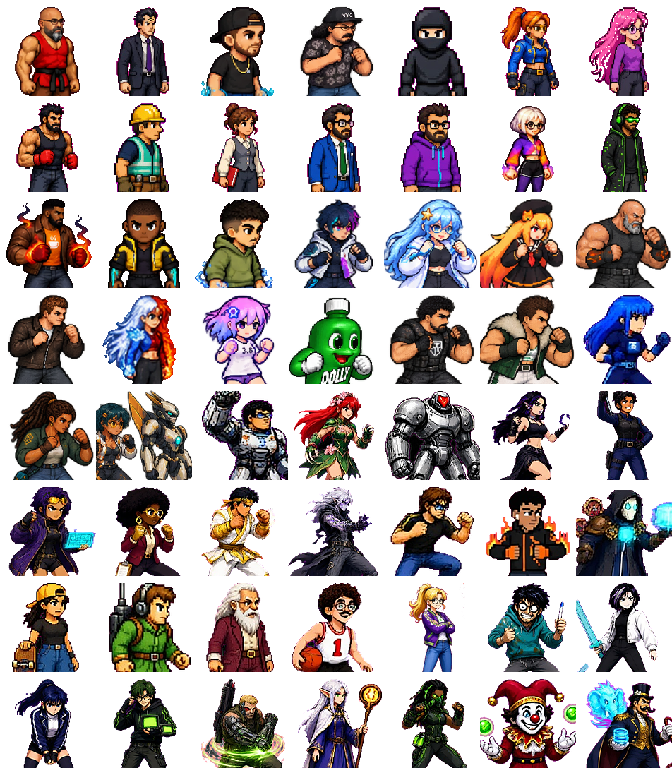
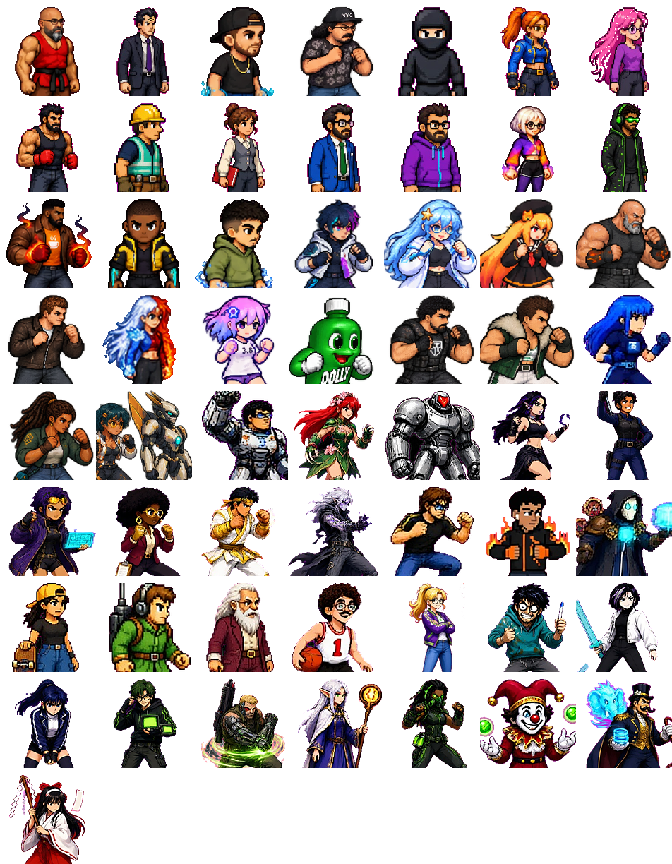
Miko (sacerdotisa) entra no roster
Arte do dono: poses das 2 folhas, atlas animado + extra (tools/build_miko_fx.py),
rosto/retrato/grade (celula 56). Kit diferente dos outros:
Ofuda Selante (paralisa), Hamaya (flecha rapida que atravessa + vulneravel),
Kekkai (barreira que bloqueia projeteis), Portal Torii (teleporte; caindo em
cima da dano + tonto) e ult EXCLUSIVA Kitsune de Nove Caudas que PURIFICA:
tira todos os buffs do rival e limpa os debuffs da Miko. FORCA 2.55 (~48%).
Acessorio: cabeca medida pelo tronco. tools/miko_test.cjs (19 checks).

Claude-Session: https://claude.ai/code/session_01SiaquMaGUrkfDxfxtSpwxQ

diff --git a/js/data/fighters-miko.js b/js/data/fighters-miko.js
@@ -1,0 +1,64 @@
+/* DS Fighters — MIKO, a sacerdotisa (nov/2026). Arte do dono
+   (bugs/Novos-personagens/Miko *.jpg): kimono branco, hakama vermelho, gohei
+   e ofudas. poses -> tools/integrate_fighter.py miko; poderes ->
+   tools/build_miko_fx.py. Controle sagrado: selo que paralisa, flecha que
+   atravessa, barreira kekkai, portal torii e a ult exclusiva KITSUNE que
+   PURIFICA (tira os buffs do rival e limpa os debuffs dela). */
+(() => {
+  const id = 'miko';
+  SPRITE_LAYOUT.files[id] = `assets/sprites/${id}.png`;
+  SPRITE_LAYOUT.ver = SPRITE_LAYOUT.ver || {};
+  SPRITE_LAYOUT.ver[id] = 'v71-miko';
+  SPRITE_LAYOUT.perFighter[id] = Object.assign(SPRITE_LAYOUT.perFighter[id] || {}, {
+    frames: Object.fromEntries(SPRITE_LAYOUT.poses.map((pose) => [pose, 4])),
+    headScan: true, /* gohei/ofuda em volta da cabeca */
+    accHide: ['ko', 'kick', 'jkick'],
+  });
+  const visual = (row, color) => ({ visualSheet: id, visualRow: row, impactSheets: ['miko-extra'], impactColor: color });
+
+  FIGHTERS.push({
+    id,
+    name: 'MIKO',
+    title: 'A Sacerdotisa do Santuário',
+    bio: 'Guardiã do santuário da colina: com o gohei e uma pilha de ofudas ela sela qualquer bug, ergue barreiras e abre portais pelos torii. Quando a raposa de nove caudas responde ao chamado, nenhum buff do rival sobrevive.',
+    colors: { skin: '#F8E0CC', hair: '#120E12', shirt: '#F4F2EE', pants: '#B4161E', shoes: '#6B4422', accent: '#FFD27D' },
+    traits: { longHair: true, gohei: true, ofuda: true },
+    stats: { power: 1.1, speed: 1.12, weight: 0.9, hp: 155, meterRate: 1.25 },
+    secret: false,
+    quotes: {
+      intro: ['O santuário está protegido.', 'Que os espíritos me guiem.'],
+      win: ['Purificado.', 'Que a paz volte ao santuário.'],
+      lose: ['O selo... rompeu...', 'Perdão, kami-sama...'],
+      taunt: ['Seu bug já tem selo.'],
+      special: ['OFUDA!', 'HAMAYA!', 'KEKKAI!', 'PORTAL TORII!'],
+      super: ['KITSUNE, VENHA!!'],
+    },
+    moves: {
+      punch: { dmg: 7, range: 58, startup: 5, active: 4, recovery: 9 },
+      kick: { dmg: 12, range: 72, startup: 8, active: 5, recovery: 12 },
+    },
+    special: { name: 'Ofuda Selante', type: 'projectile', cost: 25, proj: { row: 0, speed: 11, dmg: 9, w: 24, h: 30, color: '#FFE89A', shape: 'orb', visualSheet: id, visualRow: 0 } },
+    super: { name: 'Kitsune de Nove Caudas', type: 'buff', visualSheet: id, visualRow: 4 },
+  });
+
+  Object.assign(POWERS, {
+    [id]: {
+      element: 'arcano',
+      theme: 'santuario: ofuda que sela, hamaya, barreira kekkai, portal torii e a kitsune que purifica',
+      powers: [
+        Object.assign({ id: 'ofuda-selante', name: 'Ofuda Selante', slot: 'simple', row: 0, kind: 'shot', dmg: 9, speed: 11, cd: 54, sfx: 'magic', fx: { paralyze: 36 },
+          desc: 'Pergaminho sagrado que SELA o rival: fica PARALISADO por um instante.' }, visual(0, '#FFE89A')),
+        Object.assign({ id: 'hamaya', name: 'Hamaya', slot: 'simple', row: 1, kind: 'shot', dmg: 12, speed: 17, pierce: true, cd: 60, sfx: 'whoosh', fx: { vuln: 90 },
+          desc: 'Flecha sagrada muito rápida que ATRAVESSA e deixa VULNERÁVEL.' }, visual(1, '#FFC23A')),
+        Object.assign({ id: 'kekkai', name: 'Kekkai', slot: 'charge', meter: 0, row: 2, kind: 'wall', time: 300, dmg: 10, cd: 100, sfx: 'shield',
+          desc: 'Ergue uma barreira de ofudas na frente: BLOQUEIA projéteis e empurra quem estiver colado.' }, visual(2, '#E8C27A')),
+        Object.assign({ id: 'portal-torii', name: 'Portal Torii', slot: 'charge', meter: 1, row: 3, kind: 'shadowport', burstDmg: 16, cd: 80, sfx: 'magic', fx: { dizzy: 30 },
+          desc: 'Some num torii e reaparece atrás (ou em cima) do rival; caindo em cima: 16 de dano + TONTO.' }, visual(3, '#FF6A3A')),
+        Object.assign({ id: 'kitsune', name: 'Kitsune de Nove Caudas', slot: 'ultimate', row: 4, kind: 'kitsune', dmg: 28, heal: 12, cd: 150, sfx: 'ultimate',
+          desc: 'EXCLUSIVA: a raposa sagrada ataca e PURIFICA — o rival perde TODOS os buffs (aura, armadura, reflexo, overclock...) e a Miko limpa os próprios debuffs e cura um pouco.' }, visual(4, '#FFF2C4')),
+      ],
+    },
+  });
+  Object.assign(ELEMENT_FX, { [id]: { sheet: id, color: '#FFE89A' } });
+  Object.assign(SIGNATURES, { [id]: { trait: 'SANTUÁRIO', desc: 'Selo que paralisa, flecha que atravessa, barreira, portal e a kitsune que apaga os buffs do rival.', basic: {}, ability: {} } });
+})();

diff --git a/index.html b/index.html
@@ -521,6 +521,7 @@
   <script src="js/data/fighters-larper.js?v=v69-acc"></script>
   <script src="js/data/fighters-jester.js?v=v69-acc"></script>
   <script src="js/data/fighters-domador.js?v=v69-acc"></script>
+  <script src="js/data/fighters-miko.js?v=v71-miko"></script>
   <script src="js/data/balance-v14.js?v=v60-balanco"></script>
   <script src="js/data/balance.js?v=v53-torneio"></script>
   <script src="js/data/pets.js?v=v47-maresprites"></script>
@@ -531,13 +532,13 @@
   <script src="js/data/stages-events.js?v=v47-maresprites"></script>
   <script src="js/data/stages-brasil.js?v=v47-maresprites"></script>
   <script src="js/engine/sprites.js?v=v69-acc"></script>
-  <script src="js/engine/fx.js?v=v68-domador"></script>
+  <script src="js/engine/fx.js?v=v71-miko"></script>
   <script src="js/data/voice-book.js?v=v47-maresprites"></script>
   <script src="js/engine/audio.js?v=v47-maresprites"></script>
   <script src="js/engine/input.js?v=v47-maresprites"></script>
   <script src="js/ui/viewport.js?v=v47-maresprites"></script>
   <script src="js/engine/projectile.js?v=v62-cracker"></script>
-  <script src="js/engine/fighter.js?v=v70-mapas"></script>
+  <script src="js/engine/fighter.js?v=v71-miko"></script>
   <script src="js/engine/vfx.js?v=v47-maresprites"></script>
   <script src="js/engine/weather.js?v=v70-mapas"></script>
   <script src="js/engine/mechanics.js?v=v55-revisao"></script>
@@ -548,7 +549,7 @@
   <script src="js/net/room-core.js?v=v67-jester"></script>
   <script src="js/net/online.js?v=v47-maresprites"></script>
   <script src="js/ui/hud.js?v=v66-larper"></script>
-  <script src="js/data/roster-portraits.js?v=v68-domador"></script>
+  <script src="js/data/roster-portraits.js?v=v71-miko"></script>
   <script src="js/ui/ui.js?v=v67-jester"></script>
   <script src="js/ui/account.js?v=v47-maresprites"></script>
   <script src="js/main.js?v=v62-cracker"></script>

diff --git a/js/engine/fighter.js b/js/engine/fighter.js
@@ -862,6 +862,29 @@ class Fighter {
         game.spawnBurst('abil:jess', 4, this.x, this.y - 100, this.dir, 2.2);
         break;
       }
+      case 'kitsune': {
+        /* KITSUNE DE NOVE CAUDAS (ult exclusiva da MIKO): a raposa sagrada
+           ataca o rival e PURIFICA — tira todos os buffs dele (aura, armadura,
+           reflexo, overclock, regen...) e limpa os debuffs da propria Miko. */
+        const rival = game.enemyOf(this);
+        if (!rival) break;
+        const BUFFS = ['atk', 'def', 'spd', 'rage', 'armor', 'reflect', 'aura', 'regen', 'overclock', 'cloak', 'astra', 'trans', 'phoenix', 'lifesteal', 'nanomachines', 'veil', 'resonance'];
+        game.strikes.push(new Strike(this, {
+          x: rival.x, delay: 16, w: 220, h: 380, dmg: p.dmg || 28, stun: 34, launch: -10, follow: rival,
+          sheet: { key, row: p.row, frames: 4 }, scale: 2.6, power: p, sound: 'magic', shake: 10, warnColor: '#fff2c4',
+          onHit: (f) => {
+            let n = 0;
+            for (const b of BUFFS) if (f.status[b] > 0) { f.status[b] = 0; n++; }
+            if (f.aura) { f.aura = null; n++; }
+            ['burn', 'poison', 'slow', 'bleed', 'vuln', 'locked', 'blind', 'shock', 'glitch', 'daltonic', 'shuffled', 'vertigo'].forEach((st) => { this.status[st] = 0; });
+            this.heal(p.heal || 12);
+            game.floatText(f.x, f.y - 260, n ? 'PURIFICADO! −' + n + ' BUFF' + (n > 1 ? 'S' : '') : 'PURIFICADO!', '#FFF2C4');
+            game.spawnBurst('fx2:miko-extra', 1, f.x, f.y - 110, this.dir, 2.4);
+          },
+        }));
+        game.floatText(this.x, this.y - 250, 'KITSUNE!', '#FFD27D');
+        break;
+      }
       case 'jesterfinale': {
         /* GRANDE FINAL (ult exclusiva do JESTER): marretada com estrela, ✗
            explodindo e chuva de confete; quem leva fica com os BOTOES DE PODER

diff --git a/js/data/roster-portraits.js b/js/data/roster-portraits.js
@@ -4,9 +4,9 @@ const ROSTER_PORTRAITS = {
   "cell": 96,
   "cols": 7,
   "file": "assets/ui/roster-portraits.png",
-  "version": "v68-domador",
+  "version": "v71-miko",
   "order": [
-    "du","iales","felipinho","stack","gitmaster","bughunter","frontend","backend","devops","qa","scrum","fullstack","kotlin","hacker","java","merc","bhm","gemini","meta","mis","dev-senior","urbano","xeon","qwen","dolynho","thl","lobao","winx-exe","dandara-query","nina-vector","dev-veterano","hana","cyber-psicopata","grika","guarda-digital","engenheira-prompt","odette","john-vibe","nimbo","emilio","nunes","ponteiro","lia","nexo","maximilian","henrico","jess","dev-virado","milena","kira","cracker","rafael","lyra","larper","jester","domador"
+    "du","iales","felipinho","stack","gitmaster","bughunter","frontend","backend","devops","qa","scrum","fullstack","kotlin","hacker","java","merc","bhm","gemini","meta","mis","dev-senior","urbano","xeon","qwen","dolynho","thl","lobao","winx-exe","dandara-query","nina-vector","dev-veterano","hana","cyber-psicopata","grika","guarda-digital","engenheira-prompt","odette","john-vibe","nimbo","emilio","nunes","ponteiro","lia","nexo","maximilian","henrico","jess","dev-virado","milena","kira","cracker","rafael","lyra","larper","jester","domador","miko"
   ],
   "crops": {
     "du": {
@@ -385,6 +385,13 @@ const ROSTER_PORTRAITS = {
       "y": 37,
       "side": 136,
       "source": "assets/sprites/domador.png",
+      "frame": "idle-0"
+    },
+    "miko": {
+      "x": 89,
+      "y": 38,
+      "side": 136,
+      "source": "assets/sprites/miko.png",
       "frame": "idle-0"
     }
   }

diff --git a/js/engine/fx.js b/js/engine/fx.js
@@ -39,6 +39,10 @@ const ART_SHEETS = {
   'abil:cyber-psicopata': { src: 'assets/abilities/cyber-psicopata.png', size: 128, cols: 4, rows: 5, v: 'v63-ciber' },
   'fx2:cyber-psicopata': { src: 'assets/abilities/cyber-psicopata.png', size: 128, cols: 4, rows: 5, v: 'v63-ciber' },
   'fx2:cyber-psicopata-hit': { src: 'assets/abilities/cyber-psicopata-hit.png', size: 128, cols: 4, rows: 1, v: 'v63-ciber' },
+  /* MIKO (tools/build_miko_fx.py) */
+  'abil:miko': { src: 'assets/abilities/miko.png', size: 128, cols: 4, rows: 5, v: 'v71-miko' },
+  'fx2:miko': { src: 'assets/abilities/miko.png', size: 128, cols: 4, rows: 5, v: 'v71-miko' },
+  'fx2:miko-extra': { src: 'assets/abilities/miko-extra.png', size: 128, cols: 4, rows: 2, v: 'v71-miko' },
   /* DOMADOR DE PGADMIN (tools/build_domador_fx.py) */
   'abil:domador': { src: 'assets/abilities/domador.png', size: 128, cols: 4, rows: 5, v: 'v68-domador' },
   'fx2:domador': { src: 'assets/abilities/domador.png', size: 128, cols: 4, rows: 5, v: 'v68-domador' },

diff --git a/js/data/balance-v14.js b/js/data/balance-v14.js
@@ -62,6 +62,7 @@
     'lyra': 2.05,                 /* nova (maga do JS): ~51% */
     'larper': 2.0,                /* nova (veneno): ~50% */
     'domador': 2.05,              /* novo (pgAdmin): ~50% */
+    'miko': 2.55,                 /* nova (sacerdotisa): ~50% */
     'jester': 2.9,                /* novo (bobo): ~46% CPU x CPU — as irritacoes (tela cega/girando,
                                      controle eletrizado, botoes embaralhados) pesam mais contra gente */
   };

diff --git a/tools/build_miko_fx.py b/tools/build_miko_fx.py
@@ -1,0 +1,78 @@
+#!/usr/bin/env python3
+"""Atlas de habilidades da MIKO (sacerdotisa) — arte do dono, nov/2026.
+Fontes (bugs/Novos-personagens/, grade 4x2, fundo magenta):
+  'Miko habilidades 1.jpg': pergaminho | torii em chamas | flecha | anel roxo /
+      orbe azul | tornado de papel | sino | anel de pergaminhos
+  'Miko habilidades 2.jpg': portal torii | muralha de ofudas | corte | vortice /
+      chuva de ofudas | cupula | dragao de papel | kitsune
+Saidas: assets/abilities/miko.png (4x5) e miko-extra.png (4x2: linha 0 =
+  circulo/portal no chao, linha 1 = impacto).
+Uso: python3 tools/build_miko_fx.py
+"""
+import sys
+from pathlib import Path
+
+from PIL import Image
+
+sys.path.insert(0, str(Path(__file__).resolve().parent))
+from build_ciber_fx import S, bright, fit, key_out, place  # noqa: E402
+
+ROOT = Path(__file__).resolve().parents[1]
+SRC = ROOT / 'bugs/Novos-personagens'
+G = [(c * 296 + 6, r * 448 + 6, c * 296 + 290, r * 448 + 442) for r in range(2) for c in range(4)]
+N1 = ['scroll', 'torii', 'arrow', 'ring', 'orb', 'tornado', 'bell', 'scrolls']
+N2 = ['portal', 'wall', 'slash', 'vortex', 'rain', 'dome', 'dragon', 'kitsune']
+
+
+def build():
+    sp = {}
+    for fname, names in (('Miko habilidades 1.jpg', N1), ('Miko habilidades 2.jpg', N2)):
+        im = Image.open(SRC / fname).convert('RGB')
+        for k, b in zip(names, G):
+            sp[k] = key_out(im.crop(b))
+    atlas = Image.new('RGBA', (S * 4, S * 5))
+    extra = Image.new('RGBA', (S * 4, S * 2))
+
+    def put(img, r, c, layers):
+        cell = Image.new('RGBA', (S, S))
+        for spec in layers:
+            place(cell, fit(spec[0], S - 6, spec[1]), alpha=spec[2] if len(spec) > 2 else 1.0)
+        img.alpha_composite(cell, (c * S, r * S))
+
+    # 0 OFUDA SELANTE: pergaminho girando de leve
+    for c, ang in enumerate([0, 12, 0, -12]):
+        put(atlas, 0, c, [(bright(sp['scroll'].rotate(ang, resample=Image.BICUBIC, expand=True), 1 + 0.1 * c), 0.8)])
+    # 1 FLECHA SAGRADA (hamaya)
+    for c, br in enumerate([1.0, 1.2, 1.1, 1.3]):
+        put(atlas, 1, c, [(bright(sp['arrow'], br), 1.0)])
+    # 2 KEKKAI (muralha): muralha de ofudas -> cupula
+    put(atlas, 2, 0, [(sp['dome'], 1.0)])
+    put(atlas, 2, 1, [(sp['wall'], 1.0)])
+    put(atlas, 2, 2, [(bright(sp['wall'], 1.15), 1.0)])
+    put(atlas, 2, 3, [(sp['wall'], 1.0), (sp['dome'], 0.7, 0.5)])
+    # 3 PORTAL TORII (teleporte)
+    put(atlas, 3, 0, [(sp['portal'], 1.0)])
+    put(atlas, 3, 1, [(sp['torii'], 1.0)])
+    put(atlas, 3, 2, [(sp['vortex'], 1.0)])
+    put(atlas, 3, 3, [(bright(sp['portal'], 1.2), 1.0)])
+    # 4 KITSUNE DE NOVE CAUDAS (ult): dragao de papel -> kitsune -> tornado
+    put(atlas, 4, 0, [(sp['kitsune'], 1.0)])
+    put(atlas, 4, 1, [(sp['dragon'], 1.0)])
+    put(atlas, 4, 2, [(bright(sp['kitsune'], 1.2), 1.0)])
+    put(atlas, 4, 3, [(sp['tornado'], 1.0), (sp['kitsune'], 0.6, 0.5)])
+    # EXTRA 0: anel selante no chao (zona); EXTRA 1: impacto (chuva de ofudas + corte)
+    for c, ang in enumerate([0, 25, 50, 75]):
+        put(extra, 0, c, [(sp['ring'].rotate(ang, resample=Image.BICUBIC), 1.0)])
+    for c, layers in enumerate([[(sp['slash'], 0.6)], [(sp['slash'], 0.9), (sp['rain'], 0.6, 0.6)], [(sp['rain'], 1.0)], [(sp['rain'], 1.0, 0.45)]]):
+        put(extra, 1, c, layers)
+    atlas.save(ROOT / 'assets/abilities/miko.png', optimize=True)
+    extra.save(ROOT / 'assets/abilities/miko-extra.png', optimize=True)
+    if '--preview' in sys.argv:
+        full = Image.new('RGBA', (S * 4, S * 7), (28, 30, 44, 255))
+        full.alpha_composite(atlas); full.alpha_composite(extra, (0, S * 5))
+        full.convert('RGB').resize((S * 4, S * 7)).save(sys.argv[sys.argv.index('--preview') + 1])
+
+
+if __name__ == '__main__':
+    build()
+    print('ok')

diff --git a/tools/integrate_fighter.py b/tools/integrate_fighter.py
@@ -779,7 +779,39 @@ DOMADOR_POSES = {
     'win':     ([(1, 2, 1, True), (0, 3, 1, True), (1, 2, 1, True), (0, 3, 1, True)], 206, BASE),
 }
 
+# MIKO (sacerdotisa) — f1 (si=0): gohei+ofuda | palma | salto | voadora /
+#   arco | arremesso de ofuda | ritual ajoelhada | apanhando
+# f2 (si=1): ajoelhada com ofuda (8 copias iguais). Todas olham pra DIREITA.
+MIKO_POSES = {
+    'idle':    ([(0, 0, 0, False)] * 4, 200, BASE),
+    'walk':    ([(0, 0, 0, False), (0, 1, 1, False), (0, 0, 0, False), (0, 1, 1, False)], 198, BASE),
+    'jump':    ([(0, 2, 0, False)] * 4, 180, AIR),
+    'crouch':  ([(1, 0, 0, False)] * 4, 140, BASE),
+    'punch':   ([(0, 1, 0, False)] * 4, 198, BASE),
+    'kick':    ([(0, 3, 0, False)] * 4, 176, BASE),
+    'cpunch':  ([(1, 0, 0, False)] * 4, 140, BASE),
+    'ckick':   ([(0, 2, 1, False)] * 4, 140, BASE),
+    'jpunch':  ([(0, 2, 0, False)] * 4, 180, AIR),
+    'jkick':   ([(0, 3, 0, False)] * 4, 176, AIR),
+    'special': ([(0, 0, 1, False), (0, 1, 1, False), (0, 0, 1, False), (0, 1, 1, False)], 200, BASE),
+    'hit':     ([(0, 3, 1, False)] * 4, 196, BASE),
+    'block':   ([(0, 1, 0, False)] * 4, 198, BASE),
+    'ko':      ([(0, 2, 1, False)] * 4, 110, BASE),
+    'win':     ([(1, 0, 0, False)] * 4, 150, BASE),
+}
+
 FIGHTERS = {
+    'miko': {
+        'sheets': ['Miko sprites 1.jpg', 'Miko sprites 2.jpg'],
+        'poses': MIKO_POSES,
+        'ui_cell': (0, 0, 0, False),
+        'row_bands': [(0, 448), (448, 896)],
+        'col_bands': [(0, 296), (296, 592), (592, 888), (888, 1184)],
+        'strict_magenta': True,
+        'holes': True,
+        'magfix_red': True,
+        'abilities_keep': True,  # atlas animado: tools/build_miko_fx.py
+    },
     'domador': {
         'sheets': ['Domador sprites 1.jpg', 'Domador sprites 2.jpg'],
         'poses': DOMADOR_POSES,
